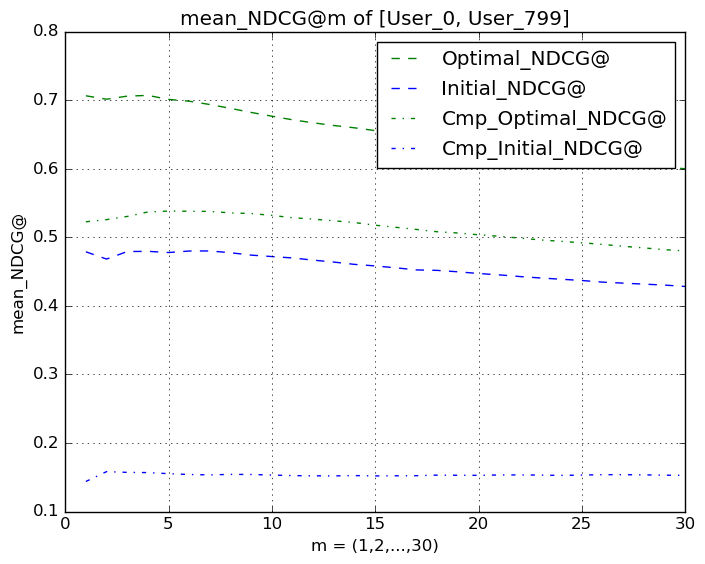
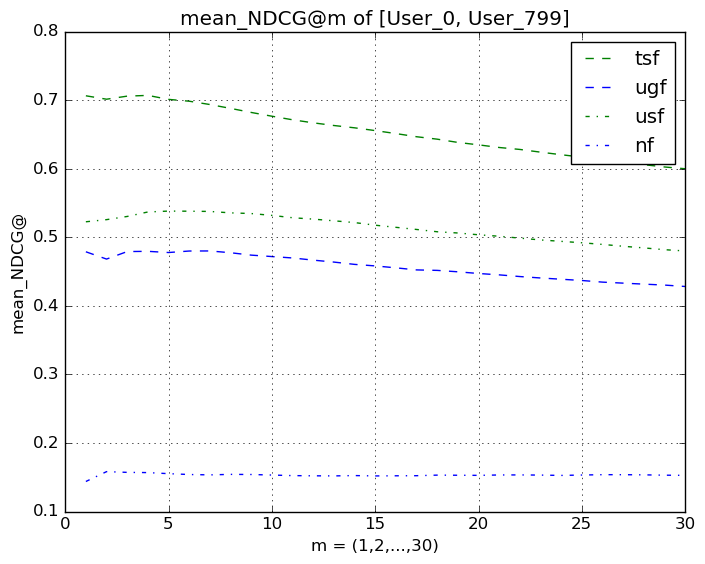
figures: Net8 finetune

Changed region(s): [[0.5305, 0.0603, 0.9674, 0.3014], [0.905, 0.0904, 0.9362, 0.1206]]

diff --git a/models/fashionNet_8/training_record/t8.1_finetune_test/training_script/results/figures/visualization.py b/models/fashionNet_8/training_record/t8.1_finetune_test/training_script/results/figures/visualization.py
@@ -170,10 +170,10 @@ for n in range(0,ndcg_at_length):
 
 fig = plt.figure()
 ax_left = fig.add_subplot(111)
-ax_left.plot(ndcg_at_idx, optimal_ndcg_at, '--g', label = 'Optimal_NDCG@')
-ax_left.plot(ndcg_at_idx, initial_ndcg_at, '--b', label = 'Initial_NDCG@')
-ax_left.plot(ndcg_at_idx, cmp_optimal_ndcg_at, '-.g', label = 'Cmp_Optimal_NDCG@')
-ax_left.plot(ndcg_at_idx, cmp_initial_ndcg_at, '-.b', label = 'Cmp_Initial_NDCG@')
+ax_left.plot(ndcg_at_idx, optimal_ndcg_at, '--g', label = 'tsf')
+ax_left.plot(ndcg_at_idx, initial_ndcg_at, '--b', label = 'ugf')
+ax_left.plot(ndcg_at_idx, cmp_optimal_ndcg_at, '-.g', label = 'usf')
+ax_left.plot(ndcg_at_idx, cmp_initial_ndcg_at, '-.b', label = 'nf')
 lines_left, labels_left = ax_left.get_legend_handles_labels()   
 ax_left.legend(lines_left, labels_left, loc=0)
 ax_left.grid()
